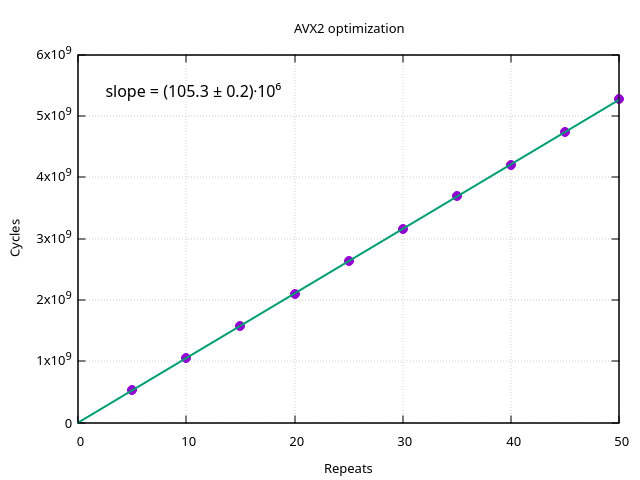
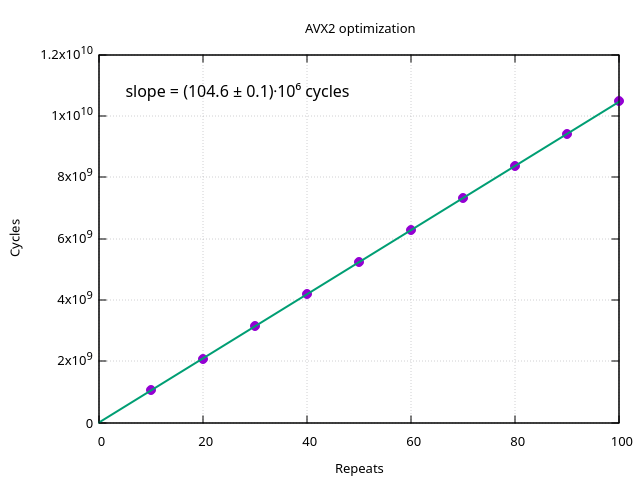
update README

diff --git a/src/mandelbrot.cpp b/src/mandelbrot.cpp
@@ -288,7 +288,7 @@ status_t testing_mode(context_t* ctx)
     //-------------------------------------------------------------------------
     test_ctx.n_points = n_points;
     //-------------------------------------------------------------------------
-    test_ctx.x = (double*)calloc(2 * n_points, sizeof(double));
+    test_ctx.x = (uint64_t*)calloc(2 * n_points, sizeof(uint64_t));
     test_ctx.y = test_ctx.x + n_points;
     //-------------------------------------------------------------------------
     for (uint32_t point = 1; point < n_points + 1; point++) {
@@ -297,8 +297,8 @@ status_t testing_mode(context_t* ctx)
         volatile status_t dummy = compute_func(ctx, point * runs);
         uint64_t cycle_end = _rdtsc();
         //---------------------------------------------------------------------
-        test_ctx.x[point - 1] = (double)(point * runs);
-        test_ctx.y[point - 1] = (double)(cycle_end - cycle_start);
+        test_ctx.x[point - 1] = (point * runs);
+        test_ctx.y[point - 1] = (cycle_end - cycle_start);
         //---------------------------------------------------------------------
         show_progress_bar(n_points, point);
     }
@@ -308,6 +308,8 @@ status_t testing_mode(context_t* ctx)
     if (ctx->argv.plot) {
         graphic_plot(&test_ctx, ctx->argv.calc);
     }
+    //-------------------------------------------------------------------------
+    make_table(&test_ctx, ctx->argv.calc);
     //-------------------------------------------------------------------------
     printf("slope     = (%.1f ± %.1f)⋅10⁶ cycles\n",
            test_ctx.slope     / 1000000, test_ctx.slope_error     / 1000000);
@@ -323,8 +325,8 @@ status_t testing_mode(context_t* ctx)
 
 status_t calc_least_squares(test_ctx_t* ctx)
 {
-    double* x = ctx->x;
-    double* y = ctx->y;
+    uint64_t* x = ctx->x;
+    uint64_t* y = ctx->y;
     //-------------------------------------------------------------------------
     double av_x  = 0.0;
     double av_y  = 0.0;
@@ -335,11 +337,11 @@ status_t calc_least_squares(test_ctx_t* ctx)
     uint32_t n_points = ctx->n_points;
     //-------------------------------------------------------------------------
     for (uint32_t i = 0; i < n_points; i++) {
-        av_x  += x[i];
-        av_y  += y[i];
-        av_xy += x[i] * y[i];
-        av_x2 += x[i] * x[i];
-        av_y2 += y[i] * y[i];
+        av_x  += (double)x[i];
+        av_y  += (double)y[i];
+        av_xy += (double)x[i] * (double)y[i];
+        av_x2 += (double)x[i] * (double)x[i];
+        av_y2 += (double)y[i] * (double)y[i];
     }
     //-------------------------------------------------------------------------
     av_x  /= n_points;
@@ -367,9 +369,50 @@ status_t calc_least_squares(test_ctx_t* ctx)
 
 //=============================================================================
 
+status_t make_table(test_ctx_t* ctx, uint32_t mode)
+{
+    FILE* table = nullptr;
+    switch (mode) {
+        case NORMAL:
+            table = fopen("no-optimization-table.txt", "w");
+            break;
+        case SSE:
+            table = fopen("sse-table.txt", "w");
+            break;
+        case AVX2:
+            table = fopen("avx2-table.txt", "w");
+            break;
+        case AVX512:
+            table = fopen("avx512-table.txt", "w");
+            break;
+        default:
+            return ERROR;
+    }
+    //-------------------------------------------------------------------------
+    if (!table) {
+        fprintf(stderr, "Error: Unable to open table file.\n");
+        return ERROR;
+    }
+    //-------------------------------------------------------------------------
+    uint32_t n_points = ctx->n_points;
+    //-------------------------------------------------------------------------
+    fputs("<table>\n\t<tr><th>Repeats</th><th>Cycles</th></tr>\n", table);
+    //-------------------------------------------------------------------------
+    for (uint32_t i = 0; i < n_points; i++) {
+        fprintf(table, "\t<tr><th>%ld</th><th>%.1f⋅10⁶</th></tr>\n",
+                ctx->x[i], (double) ctx->y[i] / 1000000);
+    }
+    //-------------------------------------------------------------------------
+    fputs("</table>\n", table);
+    //-------------------------------------------------------------------------
+    return SUCCESS;
+}
+
+//=============================================================================
+
 status_t graphic_plot(test_ctx_t* ctx, uint32_t mode)
 {
-    FILE *gnuplot = popen("gnuplot -persistent", "w");
+    FILE* gnuplot = popen("gnuplot -persistent", "w");
     if (!gnuplot) {
         fprintf(stderr, "Error: Unable to open Gnuplot.\n");
         return ERROR;
@@ -392,16 +435,15 @@ status_t graphic_plot(test_ctx_t* ctx, uint32_t mode)
             return ERROR;
     }
     //-------------------------------------------------------------------------
-    //-------------------------------------------------------------------------
     uint32_t n_points = ctx->n_points;
     //-------------------------------------------------------------------------
     for (uint32_t i = 0; i < n_points; i++) {
-        fprintf(gnuplot, "%f %f\n", ctx->x[i], ctx->y[i]);
+        fprintf(gnuplot, "%ld %ld\n", ctx->x[i], ctx->y[i]);
     }
     //-------------------------------------------------------------------------
     fprintf(gnuplot, "e\n %f %f\n", 0.0, ctx->intercept);
-    fprintf(gnuplot, "%f %f\n e\n", ctx->x[n_points - 1],
-            ctx->slope * ctx->x[n_points - 1] + ctx->intercept);
+    fprintf(gnuplot, "%f %f\n e\n", (double)ctx->x[n_points - 1],
+            ctx->slope * (double)ctx->x[n_points - 1] + ctx->intercept);
     //-------------------------------------------------------------------------
     pclose(gnuplot);
     //-------------------------------------------------------------------------
@@ -418,7 +460,7 @@ status_t set_gnuplot_settings(test_ctx_t* ctx, FILE* gnuplot, const char* plot_n
             "set ylabel 'Cycles'\n"
             "set grid\n"
             "set key left top\n"
-            "set label 1 sprintf('slope = (%.1f ± %.1f)⋅10⁶')"
+            "set label 1 sprintf('slope = (%.1f ± %.1f)⋅10⁶ cycles')"
             " at graph 0.05, 0.9 font ',12'\n"
             "plot '-' with points pointtype 7 pointsize 1.5 notitle, "
             "'-' with lines linewidth 2 notitle\n",

diff --git a/include/mandelbrot.h b/include/mandelbrot.h
@@ -66,13 +66,13 @@ struct context_t
 //———————————————————————————————————————————————————————————————————————————————
 struct test_ctx_t
 {
-    uint32_t n_points;
-    double*  x;
-    double*  y;
-    double   slope;
-    double   intercept;
-    double   slope_error;
-    double   intercept_error;
+    uint32_t  n_points;
+    uint64_t* x;
+    uint64_t* y;
+    double    slope;
+    double    intercept;
+    double    slope_error;
+    double    intercept_error;
 };
 //———————————————————————————————————————————————————————————————————————————————
 status_t   ctx_ctor                  (context_t* ctx);
@@ -101,6 +101,7 @@ status_t   calc_least_squares        (test_ctx_t* ctx);
 status_t   graphic_plot              (test_ctx_t* ctx, uint32_t mode);
 status_t   set_gnuplot_settings      (test_ctx_t* ctx,
                                       FILE* gnuplot, const char* plot_name);
+status_t   make_table                (test_ctx_t* ctx, uint32_t mode);
 status_t   show_progress_bar         (uint32_t total, uint32_t current);
 //———————————————————————————————————————————————————————————————————————————————
 #endif // MANDELBROT_H__

diff --git a/README.md b/README.md
@@ -8,8 +8,6 @@
 3) [Замерить количество тактов, требуемое для вычислений в различных реализациях.](#результаты-измерений)
 
 В качестве программы для тестирования оптимизаций было предложено вычисление и визуализация множества Мандельброта.
-Эта достаточно вычеслительно ёмкая задача, поэтому она является классической для тестирования
-чего-либо.
 
 #### Реализации
 1. **NORMAL** – базовая реализация без оптимизаций.
@@ -85,7 +83,7 @@ sudo cpupower frequency-set -u <frequency> # верхний предел
 taskset -c <core number>
 ```
 
-Условия, в которых измерял я
+Условия, в которых проводились измерения
 1) Тактовая частота процессора фиксирована и равна 3.2 GHz.
 2) Различные оптимизации запускаются на одном и том же ядре C0.
 
@@ -99,10 +97,89 @@ taskset -c <core number>
 
 ### Результаты измерений
 
-![NORMAL](https://github.com/user-attachments/assets/39800634-fda1-4e81-a3a0-ea6666cd32cf)
-![SSE](https://github.com/user-attachments/assets/2c8ca387-487c-49fe-b0a4-0146cfc41bec)
-![AVX2](https://github.com/user-attachments/assets/43a9549a-4243-4d89-aee5-abe4b76a7e73)
-![AVX512](https://github.com/user-attachments/assets/f0af3030-2c5b-4b88-8fb2-99c69e5e554d)
+<table>
+    <tr>
+        <td><img src="https://github.com/user-attachments/assets/ecac6db8-5b0f-4494-af4a-1acc667c5903"/></td>
+        <td>
+            <table>
+            	<tr><th>Repeats</th><th>Cycles</th></tr>
+            	<tr><th>10</th><th>3862.9⋅10⁶</th></tr>
+            	<tr><th>20</th><th>7688.8⋅10⁶</th></tr>
+            	<tr><th>30</th><th>11491.9⋅10⁶</th></tr>
+            	<tr><th>40</th><th>15373.4⋅10⁶</th></tr>
+            	<tr><th>50</th><th>19273.7⋅10⁶</th></tr>
+            	<tr><th>60</th><th>23025.0⋅10⁶</th></tr>
+            	<tr><th>70</th><th>26952.4⋅10⁶</th></tr>
+            	<tr><th>80</th><th>30792.5⋅10⁶</th></tr>
+            	<tr><th>90</th><th>34677.4⋅10⁶</th></tr>
+            	<tr><th>100</th><th>38366.3⋅10⁶</th></tr>
+            </table>
+        </td>
+    </tr>
+</table>
+
+<table>
+    <tr>
+        <td><img src="https://github.com/user-attachments/assets/aa2c9031-9c02-4c38-939b-c3ed2c15c011"/></td>
+        <td>
+            <table>
+            	<tr><th>Repeats</th><th>Cycles</th></tr>
+            	<tr><th>10</th><th>2044.1⋅10⁶</th></tr>
+            	<tr><th>20</th><th>4058.9⋅10⁶</th></tr>
+            	<tr><th>30</th><th>6099.7⋅10⁶</th></tr>
+            	<tr><th>40</th><th>8184.1⋅10⁶</th></tr>
+            	<tr><th>50</th><th>10236.7⋅10⁶</th></tr>
+            	<tr><th>60</th><th>12252.6⋅10⁶</th></tr>
+            	<tr><th>70</th><th>14318.8⋅10⁶</th></tr>
+            	<tr><th>80</th><th>16371.7⋅10⁶</th></tr>
+            	<tr><th>90</th><th>18414.0⋅10⁶</th></tr>
+            	<tr><th>100</th><th>20446.9⋅10⁶</th></tr>
+            </table>
+        </td>
+    </tr>
+</table>
+
+<table>
+    <tr>
+        <td><img src="https://github.com/user-attachments/assets/c9ff0e55-65f4-4ffb-a8ba-1d3cb1c1be66"/></td>
+        <td>
+            <table>
+            	<tr><th>Repeats</th><th>Cycles</th></tr>
+            	<tr><th>10</th><th>1066.7⋅10⁶</th></tr>
+            	<tr><th>20</th><th>2095.9⋅10⁶</th></tr>
+            	<tr><th>30</th><th>3141.4⋅10⁶</th></tr>
+            	<tr><th>40</th><th>4190.9⋅10⁶</th></tr>
+            	<tr><th>50</th><th>5239.3⋅10⁶</th></tr>
+            	<tr><th>60</th><th>6292.0⋅10⁶</th></tr>
+            	<tr><th>70</th><th>7316.2⋅10⁶</th></tr>
+            	<tr><th>80</th><th>8361.0⋅10⁶</th></tr>
+            	<tr><th>90</th><th>9422.8⋅10⁶</th></tr>
+            	<tr><th>100</th><th>10481.7⋅10⁶</th></tr>
+            </table>
+        </td>
+    </tr>
+</table>
+
+<table>
+    <tr>
+        <td><img src="https://github.com/user-attachments/assets/ff71a65b-9834-4953-94de-826876b6e7ae"/></td>
+        <td>
+            <table>
+            	<tr><th>Repeats</th><th>Cycles</th></tr>
+            	<tr><th>10</th><th>709.7⋅10⁶</th></tr>
+            	<tr><th>20</th><th>1420.4⋅10⁶</th></tr>
+            	<tr><th>30</th><th>2120.8⋅10⁶</th></tr>
+            	<tr><th>40</th><th>2830.0⋅10⁶</th></tr>
+            	<tr><th>50</th><th>3530.3⋅10⁶</th></tr>
+            	<tr><th>60</th><th>4240.4⋅10⁶</th></tr>
+            	<tr><th>70</th><th>4950.2⋅10⁶</th></tr>
+            	<tr><th>80</th><th>5652.5⋅10⁶</th></tr>
+            	<tr><th>90</th><th>6358.9⋅10⁶</th></tr>
+            	<tr><th>100</th><th>7077.9⋅10⁶</th></tr>
+            </table>
+        </td>
+    </tr>
+</table>
 
 ## Обсуждение результатов
 На графиках мы видим, что экспериментальные данные хорошо описываются линейной зависимостью, что
